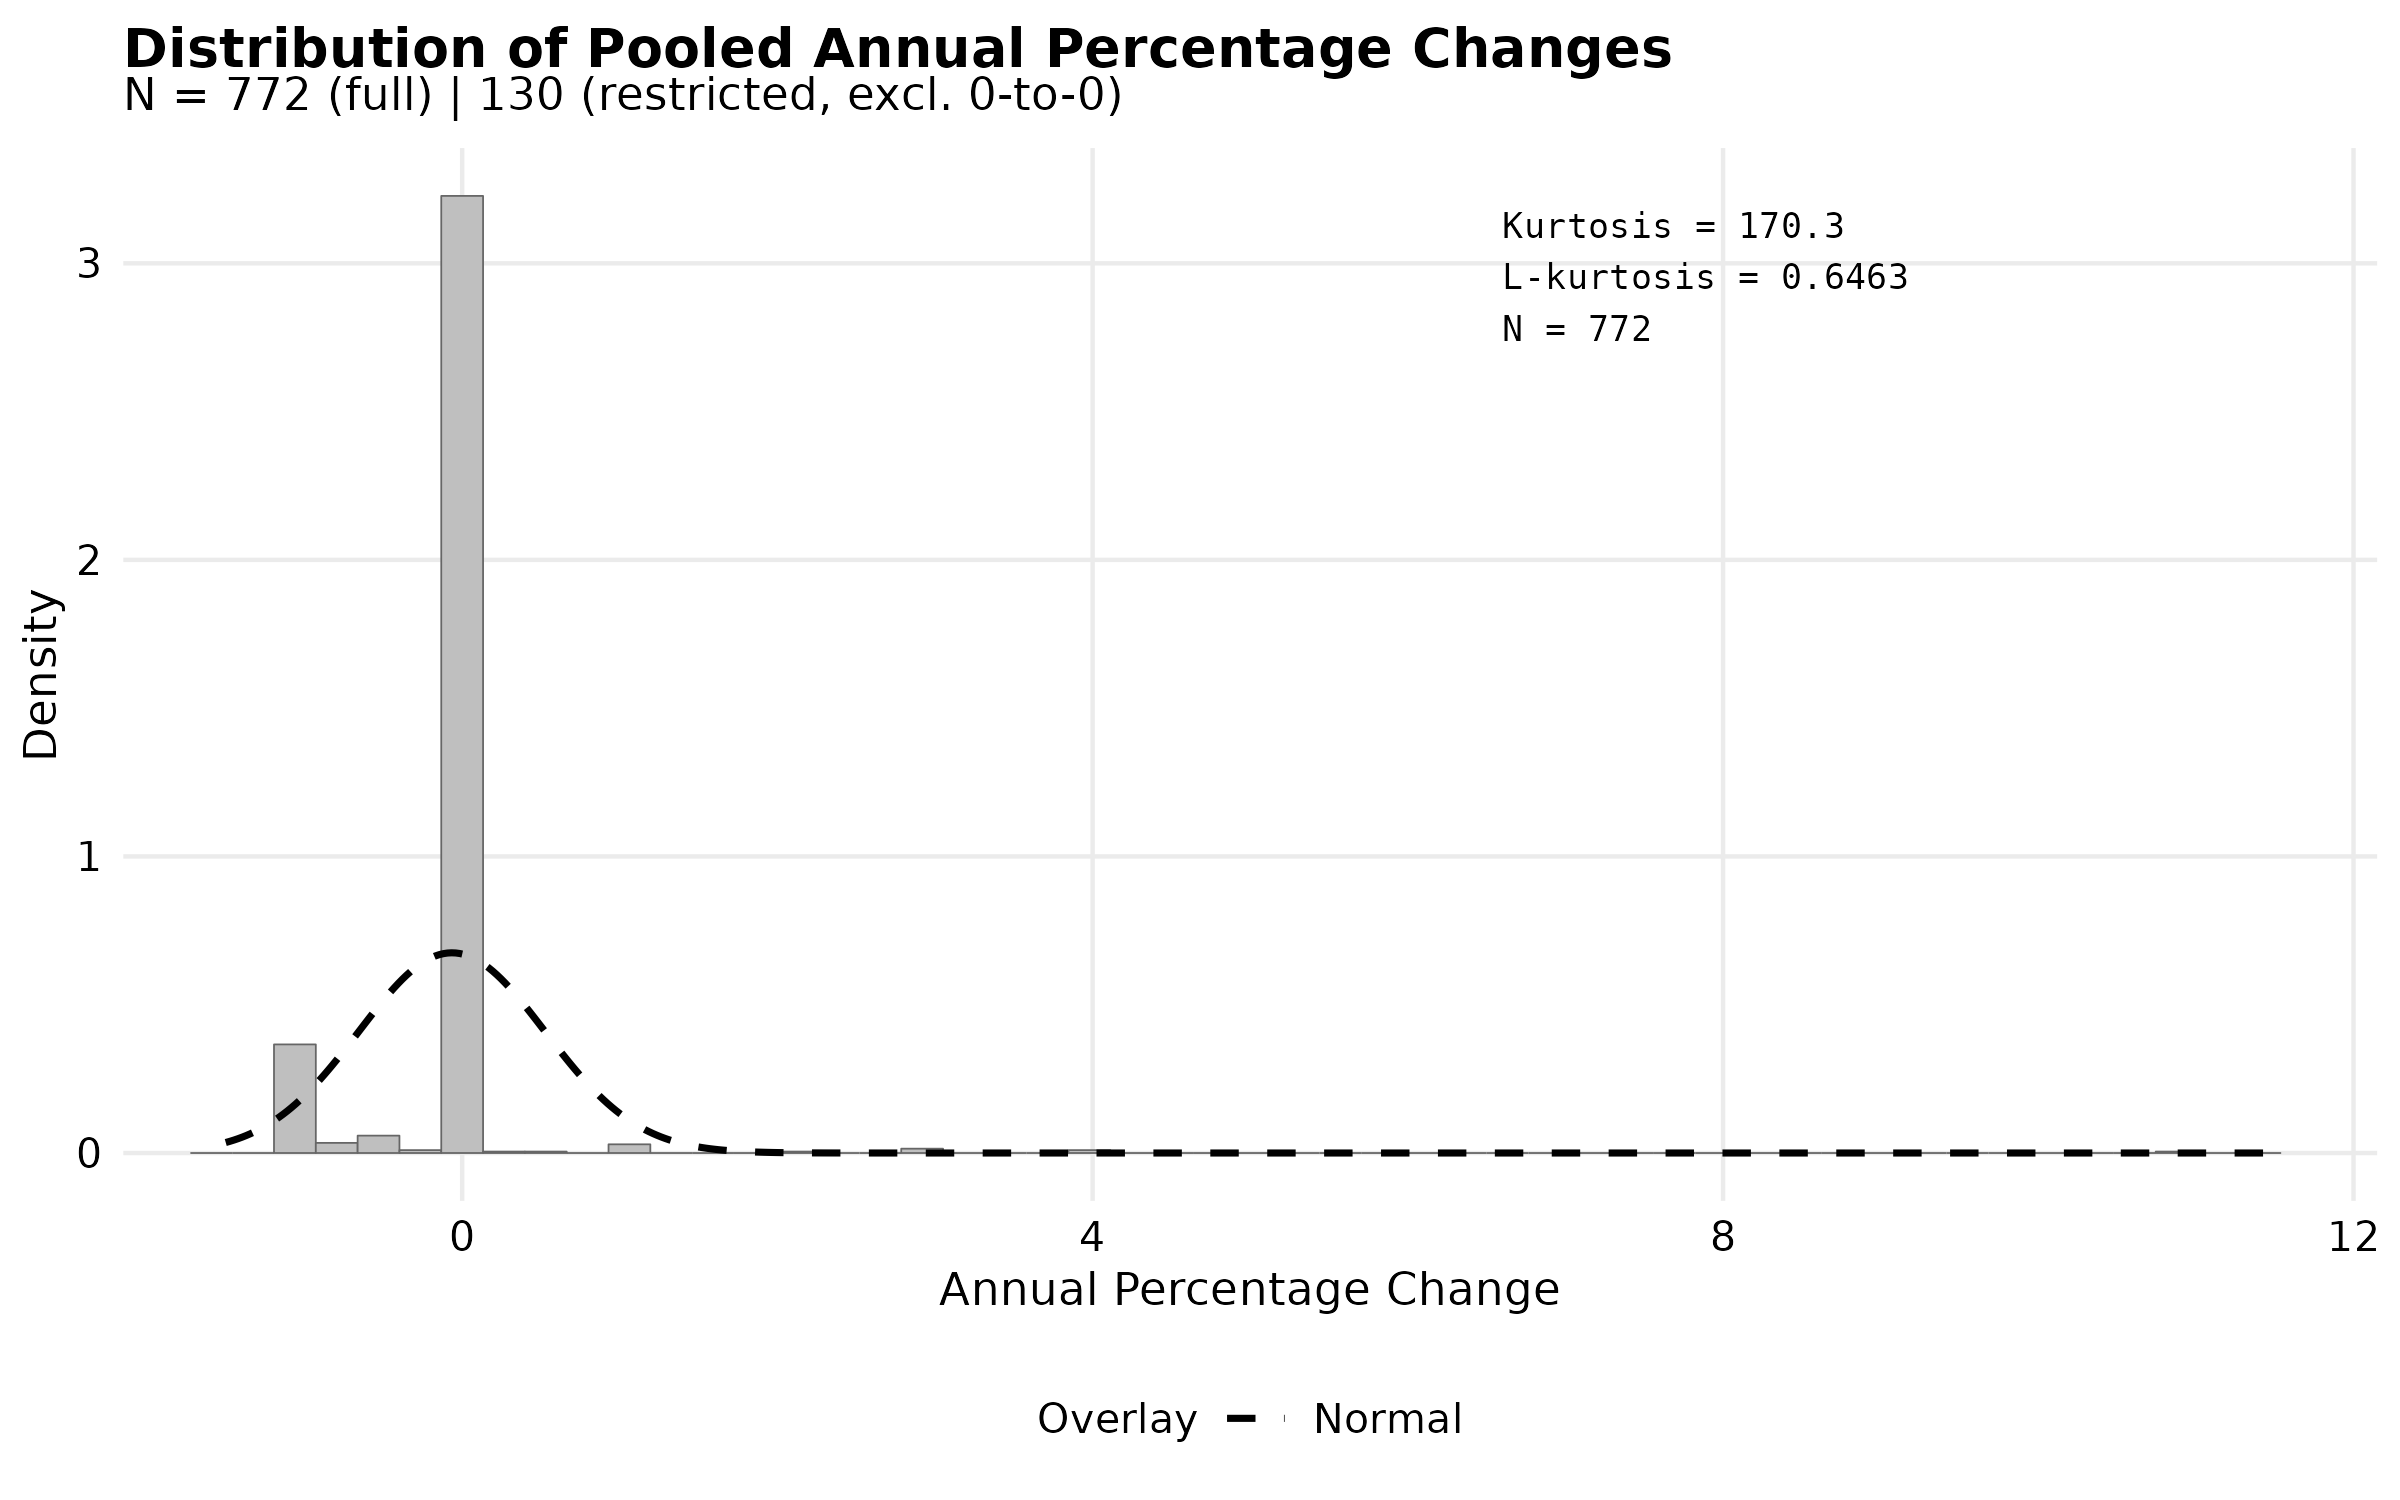
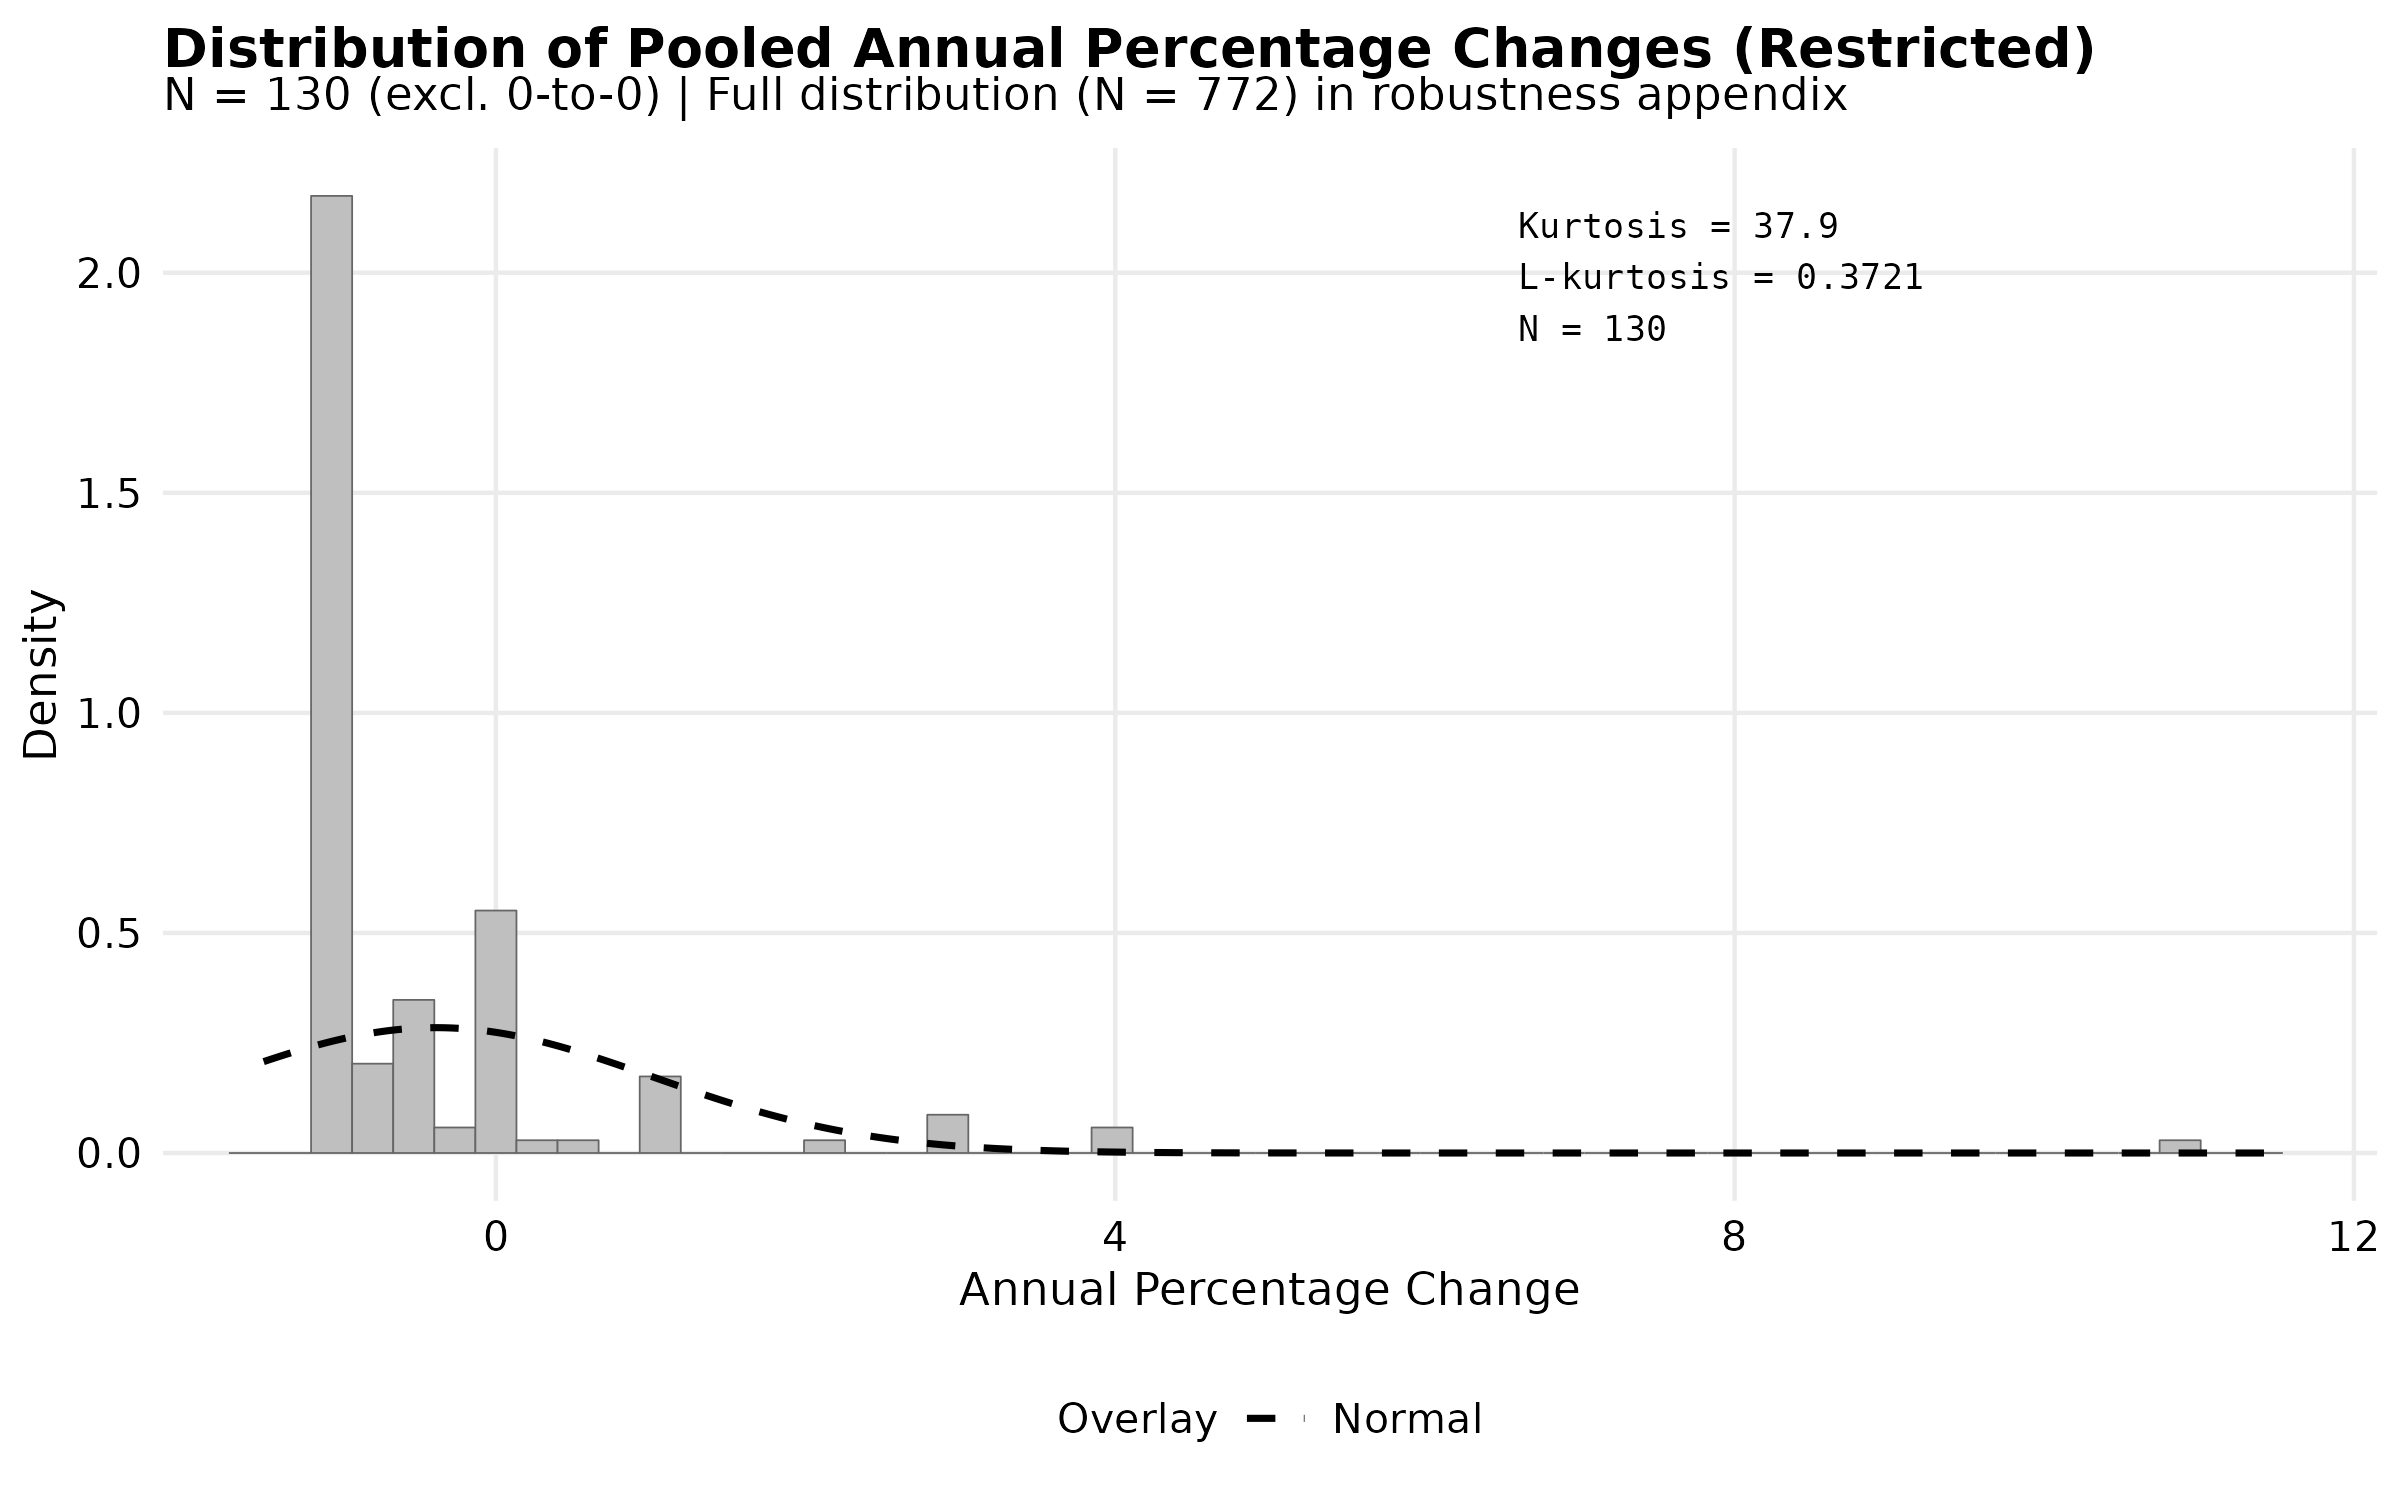
Switch to restricted distribution as primary reporting basis
Restricted distribution (excl 0-to-0, N=130) is now the primary basis
for all percentage-change analyses (H1a, H1b, H2). Full distribution
(N=772) demoted to robustness appendix. Key changes:
- Table 1: restricted column first, full second
- Table 3: core/peripheral split on restricted (core N=77, periph N=53)
- Table 3b: variance decomposition on restricted (core 88.8%)
- H2 t-fits: restricted subsets (crisis now converges: sigma=0.355)
- Core threshold sensitivity: restricted distribution
- New appendix_full_distribution_robustness.csv
- Figure 3: histogram of restricted distribution

https://claude.ai/code/session_01KEM5ho8Ym2FCJzQmqcH7Nk

diff --git a/analysis/summary.md b/analysis/summary.md
@@ -1,6 +1,6 @@
 # ASEAN Policy Agenda Analysis: Summary of Results
 
-Generated: 2026-03-04 08:25:04
+Generated: 2026-03-04 08:54:41
 
 ## Data
 
@@ -12,14 +12,14 @@ Generated: 2026-03-04 08:25:04
 
 ## Parameter Choices
 
+- **Primary distribution:** Restricted (excl. 0-to-0), N = 130
+- **Full distribution (robustness):** N = 772 (incl. 642 zero-to-zero transitions)
 - **Percentage changes:** Area-level, pooled across 16 areas and 53 year-pairs
 - **Zero-handling rules:**
-  - 0 -> 0: assign 0 (included in full distribution, excluded in restricted)
+  - 0 -> 0: assign 0 (excluded from primary; included in robustness)
   - 0 -> >0: exclude (undefined)
   - >0 -> 0: assign -1 (100% decrease)
   - >0 -> >0: standard formula
-- **Full distribution:** N = 772 (incl. 642 zero-to-zero transitions)
-- **Restricted distribution:** N = 130 (excl. zero-to-zero)
 - **Core areas:** 10 (Transportation), 15 (Intra-ASEAN Trade), 20 (ASEAN Governance)
 - **2008 classification:** Milestone only (Charter preceded GFC; overlap flagged)
 - **Crisis windows:** 1997-98, 2004-05, 2009, 2020
@@ -27,48 +27,48 @@ Generated: 2026-03-04 08:25:04
 
 ## H1a: Aggregate Punctuated Equilibrium
 
-### Full Distribution
-- **N:** 772
-- **Mean:** -0.0651, **Median:** 0.0000, **SD:** 0.5910
-- **Raw kurtosis:** 170.2610 (benchmark = 3)
-- **L-kurtosis:** 0.6463 (benchmark = 0.1226)
-- **Shapiro-Wilk:** W = 0.299039, p = 5.5720e-47
-- **t-fit:** mu = 0.0000 (NA), sigma = 0.0000 (NA), nu = 1.0100 (NA)
-- **Note:** converged; jittered: sigma=0.0005, nu=1.01
-
-### Restricted Distribution (excl. 0-to-0)
+### Primary Distribution (Restricted, excl. 0-to-0)
 - **N:** 130
-- **Mean:** -0.3863, **SD:** 1.4008
-- **Raw kurtosis:** 37.9179
-- **L-kurtosis:** 0.3721
+- **Mean:** -0.3863, **Median:** -1.0000, **SD:** 1.4008
+- **Raw kurtosis:** 37.9179 (benchmark = 3)
+- **L-kurtosis:** 0.3721 (benchmark = 0.1226)
+- **Shapiro-Wilk:** W = 0.465710, p = 9.6292e-20
 - **t-fit:** mu = -1.0000 (NA), sigma = 0.0000 (NA), nu = 1.0100 (NA)
-- **Note:** converged; jittered: sigma=0.0014, nu=1.01
+- **Note:** converged; jittered: sigma=0.0015, nu=1.01
+
+### Full Distribution (Robustness)
+- **N:** 772
+- **Mean:** -0.0651, **SD:** 0.5910
+- **Raw kurtosis:** 170.2610
+- **L-kurtosis:** 0.6463
+- **t-fit:** mu = 0.0000 (NA), sigma = 0.0000 (NA), nu = 1.0100 (NA)
+- **Note:** converged; jittered: sigma=0.0007, nu=1.01
 
 ## H1b: Core-Periphery Decomposition
 
-### Distributional Comparison (Table 3)
+### Distributional Comparison (Table 3, restricted distribution)
 
-**N:** Agg = 772 | Core = 132 | Periph = 640
-**Mean:** Agg = -0.0651 | Core = -0.0093 | Periph = -0.0766
-**SD:** Agg = 0.5910 | Core = 1.3062 | Periph = 0.2661
-**Skewness:** Agg = 9.6239 | Core = 5.3206 | Periph = -3.1925
-**Raw Kurtosis (benchmark=3):** Agg = 170.2610 | Core = 42.4905 | Periph = 11.2176
-**L-kurtosis (tau_4, benchmark=0.123):** Agg = 0.6463 | Core = 0.4199 | Periph = 0.6516
-**Shapiro-Wilk W:** Agg = 0.299039 | Core = 0.503274 | Periph = 0.292318
-**Shapiro-Wilk p:** Agg = 5.5720e-47 | Core = 3.0612e-19 | Periph = 7.1496e-44
-**t-fit: mu (SE):** Agg = 0.000000 (NA) | Core = 0.000000 (NA) | Periph = 0.000000 (NA)
-**t-fit: sigma (SE):** Agg = 0.000001 (NA) | Core = 0.000001 (NA) | Periph = 0.000001 (NA)
-**t-fit: sigma^2:** Agg = 0.000000 | Core = 0.000000 | Periph = 0.000000
-**t-fit: nu (SE):** Agg = 1.0100 (NA) | Core = 1.0164 (NA) | Periph = 1.0100 (NA)
+**N:** Agg = 130 | Core = 77 | Periph = 53
+**Mean:** Agg = -0.3863 | Core = -0.0159 | Periph = -0.9245
+**SD:** Agg = 1.4008 | Core = 1.7149 | Periph = 0.2667
+**Skewness:** Agg = 5.0857 | Core = 4.1097 | Periph = 3.3087
+**Raw Kurtosis (benchmark=3):** Agg = 37.9179 | Core = 25.4703 | Periph = 12.2970
+**L-kurtosis (tau_4, benchmark=0.123):** Agg = 0.3721 | Core = 0.3265 | Periph = 0.7176
+**Shapiro-Wilk W:** Agg = 0.465710 | Core = 0.562698 | Periph = 0.292082
+**Shapiro-Wilk p:** Agg = 9.6292e-20 | Core = 8.5914e-14 | Periph = 1.4838e-14
+**t-fit: mu (SE):** Agg = -1.000000 (NA) | Core = -0.597350 (NA) | Periph = -1.000000 (NA)
+**t-fit: sigma (SE):** Agg = 0.000001 (NA) | Core = 0.474967 (NA) | Periph = 0.000001 (NA)
+**t-fit: sigma^2:** Agg = 0.000000 | Core = 0.225594 | Periph = 0.000000
+**t-fit: nu (SE):** Agg = 1.0100 (NA) | Core = 1.5044 (NA) | Periph = 1.0100 (NA)
 **t-fit: Theo. variance:** Agg = Inf | Core = Inf | Periph = Inf
-**t-fit: AIC:** Agg = -13419.59 | Core = 90.78 | Periph = -13494.65
-**t-fit: Note:** Agg = converged; jittered: sigma=0.0005, nu=1.01 | Core = converged; jittered: sigma=0.0023, nu=1.01 | Periph = converged; jittered: sigma=0.0005, nu=1.01
+**t-fit: AIC:** Agg = -248.05 | Core = 222.04 | Periph = -1115.23
+**t-fit: Note:** Agg = converged; jittered: sigma=0.0014, nu=1.01 | Core = converged | Periph = converged; jittered: sigma=0.0005, nu=1.01
 
 ### Variance Decomposition
-- Total variance: 0.3492
-- Within-core: 83.5% of total
-- Within-peripheral: 16.8% of total
-- Between-group: -0.3% of total
+- Total variance: 1.9622
+- Within-core: 88.8% of total
+- Within-peripheral: 1.5% of total
+- Between-group: 9.7% of total
 
 ## H2: Crisis vs. Milestone Change Patterns
 
